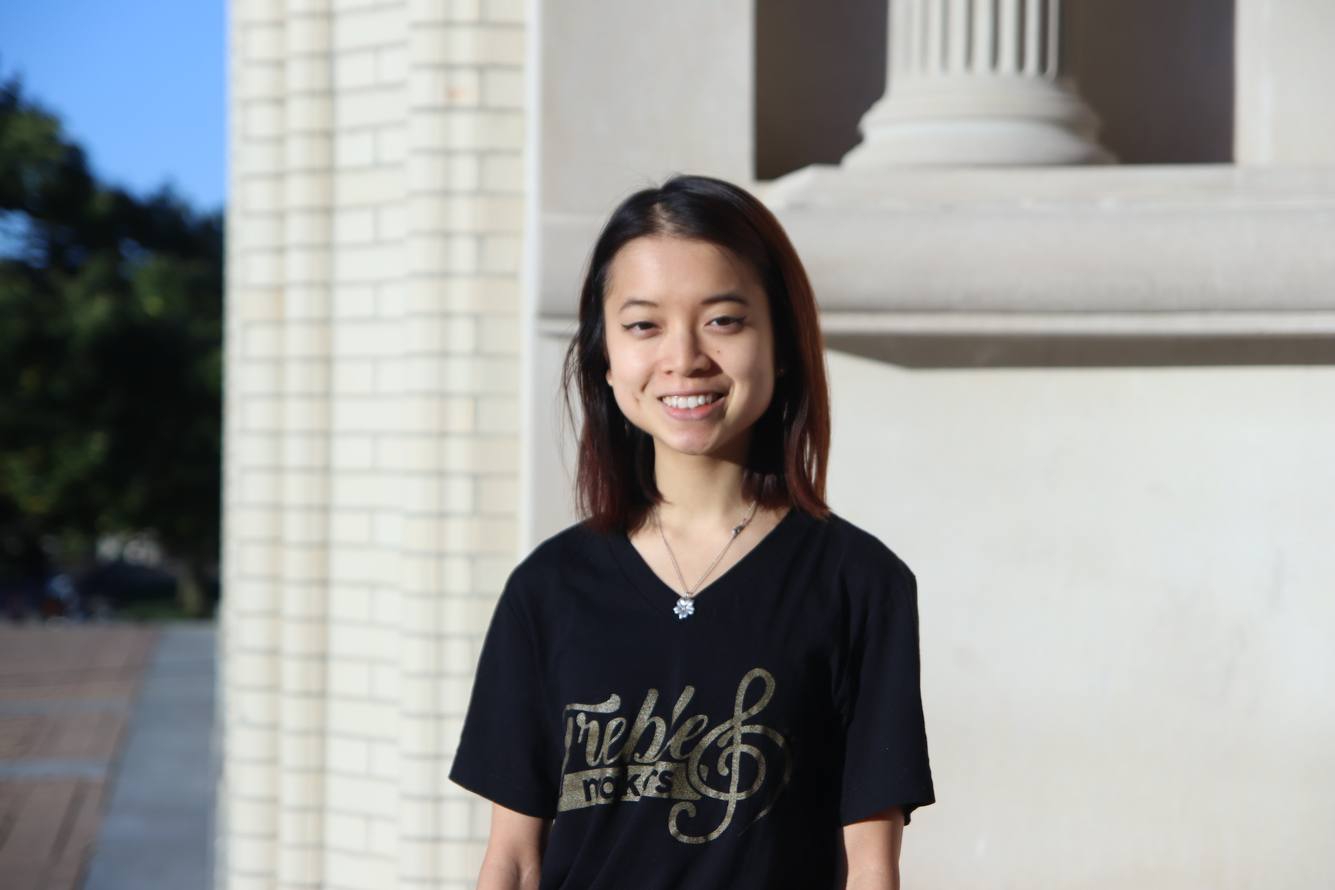
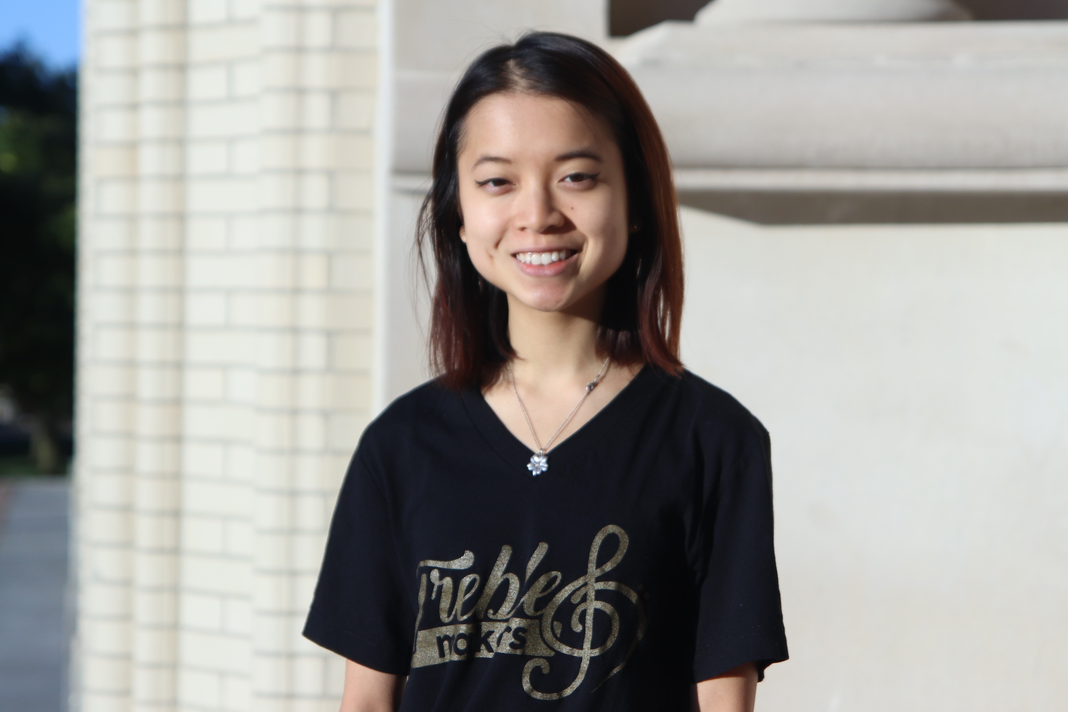
cropped member pictures

diff --git a/index.html b/index.html
@@ -402,7 +402,7 @@
                 <figcaption class="uk-thumbnail-caption">
                     <h3> Eliot Herron </h3>
                     Dramaturgy 2025</br>
-                    Vice Pres &amp; Soprano
+                    Vice President &amp; Soprano
                 </figcaption>
             </figure>
           </div>
